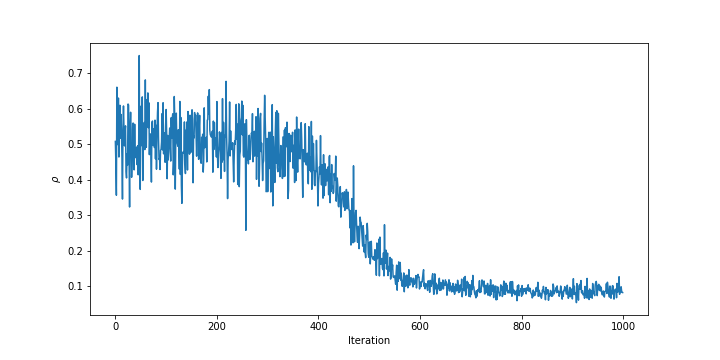
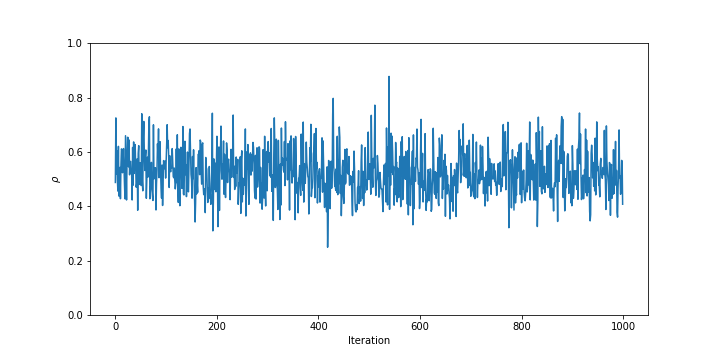
Added attributes that collect inter-iteration data for analysis of vector field for npkf

diff --git a/KernelFlow/Non_Parametric/ODE_based/KF_NP_frechet_ODE.py b/KernelFlow/Non_Parametric/ODE_based/KF_NP_frechet_ODE.py
@@ -3,6 +3,7 @@ import numpy as np
 from tqdm import tqdm
 from scipy import integrate
 import torch
+from scipy.interpolate import griddata
 from .auxilary_functions import *
 #%%
 
@@ -29,6 +30,7 @@ class KernelFlowsNP_ODE():
         self.X_batch = []
         self.Y_batch = []
         self.sample_indices = []
+        self.batch_indices = []
 
     def G(self, t: list, X: np.ndarray, Y: np.ndarray, batch_indices: np.ndarray, sample_indices: np.ndarray, not_batch) -> np.ndarray:
         """A callable function that calculates the perturbation using the Frechet derivative of rho. The function can be used as a callable in the ODE solver provided by python.
@@ -52,20 +54,29 @@ class KernelFlowsNP_ODE():
         Y_batch = Y[batch_indices]
         
         g, rho = frechet(self.parameters, X_batch, Y_batch, sample_indices, kernel_keyword = self.kernel_keyword)#, regu_lambda=self.regularization_lambda)
+        # print(np.linalg.norm(g))
+        self.g.append(g)
         if rho >1 or rho <0:
             print ("Rho outside allowed bounds", rho.item())
         # g_interpolate, coeff = kernel_regression(X_batch, X[not_batch], g, self.parameters, self.kernel_keyword, regu_lambda = self.regularization_lambda)
-        # g_interpolate, coeff = kernel_regression(X_batch, X, g, self.parameters, self.kernel_keyword, regu_lambda = self.regularization_lambda)
+        g_interpolate, coeff = kernel_regression(X_batch, X, g, self.parameters, self.kernel_keyword, regu_lambda = self.regularization_lambda)
+
         # TODO: Del later
-        g_interpolate, coeff = kernel_regression(X_batch, X, g, [3.0], self.kernel_keyword, regu_lambda = self.regularization_lambda)
-        # g_interpolate = g
-        self.debug_g_diff_norm.append(np.linalg.norm(g_interpolate - g))
+        # g_interpolate, coeff = kernel_regression(X_batch, X, g, [2.0], self.kernel_keyword, regu_lambda = self.regularization_lambda)
+        self.g_large_kernel.append(g_interpolate)
+        
+        # g_interpolate_small_kernel, _ = kernel_regression(X_batch, X, g, [0.5], self.kernel_keyword, regu_lambda = self.regularization_lambda)
+        # self.g_small_kernel.append(g_interpolate_small_kernel)
+
+        A = np.vstack([X_batch.T, np.ones(len(X_batch))]).T
+        m_1 = np.linalg.lstsq(A, g, rcond=1e-8)[0]
+        g_linear = np.matmul(np.vstack([X.T, np.ones(len(X))]).T, m_1)
+        self.g_linear.append(g_linear)
         # TODO: Del later
         # perturbation = np.zeros(X.shape)
         # perturbation[batch_indices] = g
         # perturbation[not_batch] = g_interpolate
-        perturbation = g_interpolate
-        # perturbation = np.tanh(perturbation)
+        perturbation = g_interpolate#g_interpolate_small_kernel
         self.perturbation.append(np.copy(perturbation))
 
         self.rho_values.append(rho.item())
@@ -91,15 +102,19 @@ class KernelFlowsNP_ODE():
         X_batch = np.reshape(X_batch, (Y_batch.shape[0], X_batch.shape[0] // Y_batch.shape[0]))
 
         g, rho = frechet(self.parameters, X_batch, Y_batch, sample_indices, kernel_keyword = self.kernel_keyword)  
-        # g = -g      
         if rho >1 or rho <0:
             print ("Rho outside allowed bounds", rho.item())
+        g_interpolate, _ = kernel_regression(X_batch, X_test_batch, g, self.parameters, self.kernel_keyword, regu_lambda = self.regularization_lambda)
         # TODO: Del later
-        g_interpolated, _ = kernel_regression(X_batch, X_test_batch, g, [3.0], self.kernel_keyword, regu_lambda = self.regularization_lambda)
+        # g_interpolate, _ = kernel_regression(X_batch, X_test_batch, g, [4.0], self.kernel_keyword, regu_lambda = self.regularization_lambda)
+
+        A = np.vstack([X_batch.T, np.ones(len(X_batch))]).T
+        m_1 = np.linalg.lstsq(A, g, rcond=1e-8)[0]
+        g_linear = np.matmul(np.vstack([X_test_batch.T, np.ones(len(X_test_batch))]).T, m_1)
+        self.g_linear.append(g_linear)
         # TODO: Del later
 
-        # g_interpolated, _ = kernel_regression(X_batch, X_test_batch, g, self.parameters, self.kernel_keyword, regu_lambda = self.regularization_lambda)
-        perturbations = g_interpolated#.ravel()
+        perturbations = g_linear#.ravel()
 
         return perturbations.ravel()
     
@@ -129,6 +144,12 @@ class KernelFlowsNP_ODE():
         self.points_hist.append(np.copy(X))
         self.regularization_lambda = reg
         self.debug_g_diff_norm = []
+        self.g = []
+        self.g_small_kernel = []
+        self.g_large_kernel = []
+        
+        self.g_linear = []
+        self.g_linear_2 = []
         if batch_size == False:
             self.regression = False
         
@@ -140,6 +161,7 @@ class KernelFlowsNP_ODE():
             self.Y_batch.append(np.copy(Y[batch_indices]))
             self.batch_hist.append(np.copy(batch_indices))
             self.sample_indices.append(np.copy(sample_indices))
+            self.batch_indices.append(np.copy(batch_indices))
             # The indices of all the elements not in the batch
             not_batch = np.setdiff1d(data_set_ind, batch_indices)
             solution = integrate.solve_ivp(self.G, [0, 1.0],  X.ravel(), args=(Y, batch_indices, sample_indices, not_batch), method='RK45')#, max_step=0.01) # Also tried Radau
@@ -147,9 +169,6 @@ class KernelFlowsNP_ODE():
             self.rho_values[-solution.nfev:]
             self.rho.append(np.sum(self.rho_values[-solution.nfev:]) / solution.nfev)
             X = np.reshape(X, (Y.shape[0], X.shape[0] // Y.shape[0]))
-            if np.sum(self.rho_values[-solution.nfev:]) / solution.nfev > 0.3:
-                _ = 2+2
-                pass
 
             # Update the history            
             self.points_hist.append(np.copy(X))
@@ -183,7 +202,7 @@ class KernelFlowsNP_ODE():
             X_test_batch = X_test_batch#.reshape(-1,1)
         return X_test_batch[:test_size].reshape(X_test.shape[0], X_test.shape[1])#, X_test_batch[test_size:]
 
-    def predict(self, X_test: np.ndarray, regu_lambda: float = 1e-8) -> np.ndarray:
+    def predict(self, X_test: np.ndarray, regu_lambda: float = 1e-4) -> np.ndarray:
         """Predict the test points based on kernel ridge regression with non-parametric ODE based kernel flows
         to improve the kernel 
 

diff --git a/KernelFlow/Non_Parametric/ODE_based/auxilary_functions.py b/KernelFlow/Non_Parametric/ODE_based/auxilary_functions.py
@@ -19,7 +19,6 @@ def pi_matrix(sample_indices, dimension):
 def rho(parameters, matrix_data, Y_data, sample_indices,  kernel_keyword= "RBF", regularization=1e-5):
     kernel = kernels_dic[kernel_keyword]    
     kernel_matrix = kernel(matrix_data, matrix_data, parameters)
-    
     pi = pi_matrix(sample_indices, (sample_indices.shape[0], matrix_data.shape[0]))   
     
     sample_matrix = np.matmul(pi, np.matmul(kernel_matrix, np.transpose(pi)))
@@ -40,7 +39,7 @@ def rho(parameters, matrix_data, Y_data, sample_indices,  kernel_keyword= "RBF",
     return 1 - top/bottom
 
 # Computes the frechet derivative for KF (equation 6.5 of the original paper)
-def frechet(parameters, X, Y, sample_indices, kernel_keyword = "RBF", regu_lambda = default_lambda):
+def frechet(parameters, X, Y, sample_indices, kernel_keyword = "RBF", regu_lambda = 1e-5):
     Y_sample = Y[sample_indices]
 
     pi = pi_matrix(sample_indices, (sample_indices.shape[0], X.shape[0])) 
@@ -49,7 +48,7 @@ def frechet(parameters, X, Y, sample_indices, kernel_keyword = "RBF", regu_lambd
     nabla = nabla_dic[kernel_keyword]
     # Computing the nabla matrix and the regular matrix
     derivative_matrix, batch_matrix = nabla(X, parameters)
-    
+
     # Computing the Kernel matrix Inverses
     sample_matrix = np.matmul(pi, np.matmul(batch_matrix, np.transpose(pi)))
     sample_inv = np.linalg.inv(sample_matrix + lambda_term * np.identity(sample_matrix.shape[0]))
@@ -178,7 +177,7 @@ def compute_LR(rate, old_points, g_pert, type_epsilon = "relative"):
 #%%
 
 # For Autograd Implementation
-def grad_rho(parameters, X_data, Y_data, sample_indices, kernel_keyword= "RBF", reg = 0.000001):
+def grad_rho(parameters, X_data, Y_data, sample_indices, kernel_keyword= "RBF", reg = 1e-5):
     grad_K = value_and_grad(rho, 1)
     rho_value, gradient = grad_K(parameters, X_data, Y_data, sample_indices, kernel_keyword, regularization = reg)
     return rho_value, gradient

diff --git a/KernelFlow/Non_Parametric/ODE_based/KF_NP_autograd_ODE.py b/KernelFlow/Non_Parametric/ODE_based/KF_NP_autograd_ODE.py
@@ -60,9 +60,13 @@ class KernelFlowsNP_Autograd_ODE():
         # g_interpolate, coeff = kernel_regression(X_batch, X[not_batch], g, self.parameters, self.kernel_keyword, regu_lambda = self.regularization_lambda)
         g_interpolate, coeff = kernel_regression(X_batch, X, g, self.parameters, self.kernel_keyword, regu_lambda = self.regularization_lambda)
         perturbation = np.zeros(X.shape)
-        # perturbation[batch_indices] = g
-        # perturbation[not_batch] = g_interpolate
-        perturbation = g_interpolate
+
+        A = np.vstack([X_batch.T, np.ones(len(X_batch))]).T
+        m_1 = np.linalg.lstsq(A, g, rcond=1e-8)[0]
+        g_linear = np.matmul(np.vstack([X.T, np.ones(len(X))]).T, m_1)
+        # self.g_linear.append(g_linear)
+
+        perturbation = g_linear#g_interpolate
         # perturbation = np.tanh(perturbation)
         self.perturbation.append(np.copy(perturbation))
 

diff --git a/KernelFlow/Non_Parametric/ODE_based/nabla_functions.py b/KernelFlow/Non_Parametric/ODE_based/nabla_functions.py
@@ -31,7 +31,8 @@ a specific point, the derivative wrt to every other point.
 # Nabla of the RBF kernel    
 def nabla_RBF(X,  parameters):
     # Computing the Kernel matrix
-    matrix_norm = norm_matrix(X, X)
+    matrix_norm = norm_matrix(X, X) 
+    # matrix_norm = np.linalg.norm(pairwise_diff(X), axis=1)**2
     sigma = parameters[0]
     batch_matrix =  np.exp(-matrix_norm /(2 *sigma**2))
      
